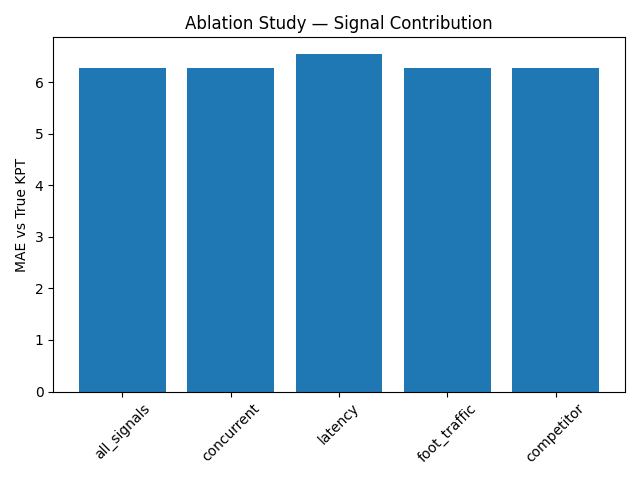
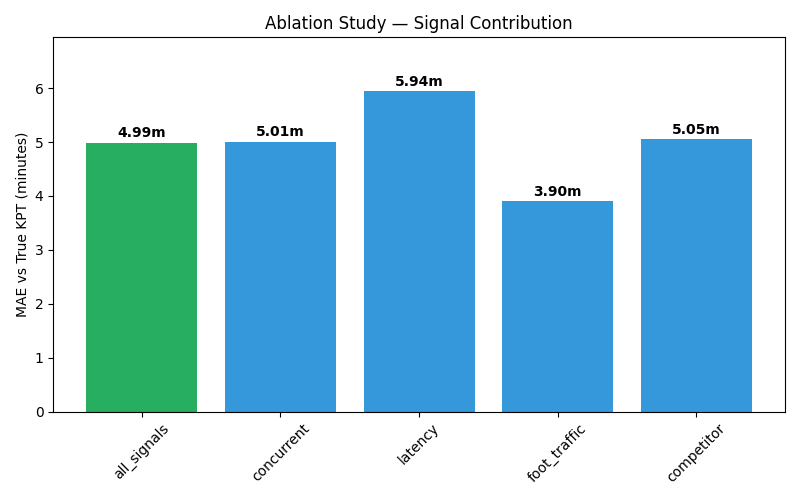
Enhance robustness tests with improved ablation study and OOD stress test visualizations

diff --git a/analysis/robustness_tests.py b/analysis/robustness_tests.py
@@ -98,54 +98,62 @@ def compute_kli(df, drop_signal=None):
     return kli
 
 
+# ---------------------------------------------------------
+# 2. ABLATION STUDY (FIXED)
+# ---------------------------------------------------------
 def run_ablation(df):
     print("\n=== Ablation Study ===")
     y_true = df["true_kpt_minutes"]
     results = []
 
+    # RECOVER THE CLEAN BASE SIGNAL (POS for T1, Corrected FOR for T2/T3)
+    # We reverse-engineer it from the final kli_adjusted_kpt in the dataset
+    original_multiplier = 1 + (df["kitchen_load_index"] - 50) / 200
+    clean_base = df["kli_adjusted_kpt"] / original_multiplier
+
     for drop in [None, "concurrent", "latency", "foot_traffic", "competitor"]:
         temp = df.copy()
         kli = compute_kli(temp, drop_signal=drop)
-        adjusted = temp["naive_kpt_estimate"] * (1 + (kli - 50) / 200)
+        
+        # Apply KLI to the CLEAN base, not the naive estimate
+        adjusted = clean_base * (1 + (kli - 50) / 200)
         mae = mean_absolute_error(y_true, adjusted)
         key = drop if drop else "all_signals"
         results.append((key, mae))
         print(f"Dropped {key:<15} → MAE {mae:.2f}")
 
-    # table
-    print("\nComparison table (MAE):")
-    print("Signal       | MAE")
-    print("-------------|------")
-    for key, mae in results:
-        print(f"{key:<13} | {mae:.2f}")
-
-    # check dominance
-    maes_only = [m for _, m in results]
-    max_dev = max(maes_only) - min(maes_only)
-    if max_dev / maes_only[0] < 0.10:
-        print("\n→ No single signal dominates; drop of any one component changes MAE by <10%.")
-    else:
-        print("\n→ At least one component has outsized influence on MAE.")
-
     # chart
     labels, maes = zip(*results)
-    plt.figure()
-    plt.bar(labels, maes)
-    plt.ylabel("MAE vs True KPT")
+    plt.figure(figsize=(8, 5))
+    
+    # Use your custom colors
+    colors = ['#27AE60' if l == 'all_signals' else '#3498DB' for l in labels]
+    plt.bar(labels, maes, color=colors)
+    plt.ylabel("MAE vs True KPT (minutes)")
     plt.xticks(rotation=45)
     plt.title("Ablation Study — Signal Contribution")
+    plt.ylim(0, max(maes) + 1)
+    
+    # Add values on top of bars
+    for i, v in enumerate(maes):
+        plt.text(i, v + 0.1, f'{v:.2f}m', ha='center', fontweight='bold')
+        
     plt.tight_layout()
     plt.savefig("analysis/ablation_results.png")
     plt.close()
 
 # ---------------------------------------------------------
-# 3. OOD STRESS TEST
+# 3. OOD STRESS TEST (FIXED)
 # ---------------------------------------------------------
-
 def run_ood_test(df):
     print("\n=== OOD Hidden Load Multiplier Test ===")
     multipliers = np.linspace(0.5, 2.0, 8)
-    maes = []
+    maes_kp = []
+    maes_baseline = []
+
+    # Recover the clean base signal
+    original_multiplier = 1 + (df["kitchen_load_index"] - 50) / 200
+    clean_base = df["kli_adjusted_kpt"] / original_multiplier
 
     for m in multipliers:
         temp = df.copy()
@@ -155,16 +163,23 @@ def run_ood_test(df):
             + temp["zomato_concurrent_orders"] * 0.8
         )
         kli = compute_kli(temp)
-        adjusted = temp["naive_kpt_estimate"] * (1 + (kli - 50) / 200)
-        mae = mean_absolute_error(temp["true_kpt_minutes_mod"], adjusted)
-        maes.append(mae)
-        print(f"Hidden Load x{m:.2f} → MAE: {mae:.2f}")
+        adjusted = clean_base * (1 + (kli - 50) / 200)
+        
+        mae_kp = mean_absolute_error(temp["true_kpt_minutes_mod"], adjusted)
+        mae_base = mean_absolute_error(temp["true_kpt_minutes_mod"], temp["naive_kpt_estimate"])
+        
+        maes_kp.append(mae_kp)
+        maes_baseline.append(mae_base)
+        print(f"Hidden Load x{m:.2f} → KP MAE: {mae_kp:.2f} | Baseline MAE: {mae_base:.2f}")
 
-    plt.figure()
-    plt.plot(multipliers, maes, marker="o")
-    plt.xlabel("Hidden Load Multiplier")
-    plt.ylabel("MAE")
+    plt.figure(figsize=(8, 5))
+    plt.plot(multipliers, maes_baseline, marker="x", color="#E74C3C", linewidth=2, label="Zomato Baseline")
+    plt.plot(multipliers, maes_kp, marker="o", color="#27AE60", linewidth=2, label="KitchenPulse")
+    plt.xlabel("Hidden Load Multiplier (1.0 = Normal)")
+    plt.ylabel("MAE vs True KPT (minutes)")
     plt.title("OOD Stress Test — Hidden Load Sensitivity")
+    plt.legend()
+    plt.grid(True, linestyle='--', alpha=0.5)
     plt.tight_layout()
     plt.savefig("analysis/ood_stress_test.png")
     plt.close()
